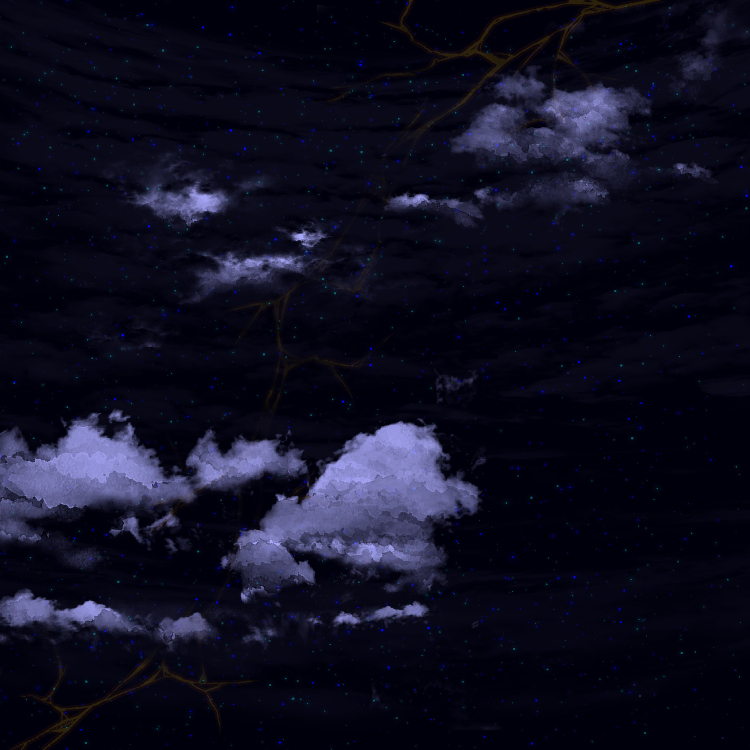
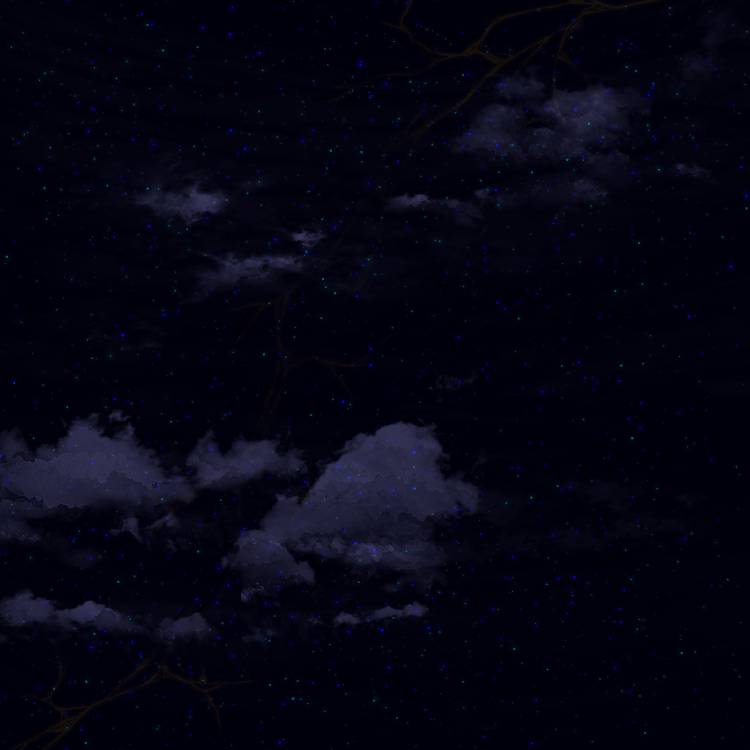
added clouds

diff --git a/game/game.js b/game/game.js
@@ -30,17 +30,23 @@ var game_phys_objects = [];
 var ground_collision_list = [];
 
 var background_img;
+var player_sprite;
+var cloud_platform1;
+var cloud_platform2;
+var cloud_platform3;
 
 //img loading
 function preload(){
     background_img = loadImage('../img/interactive_game_assets_background.png');
     var player;
-    var platform;
+    cloud_platform1 = loadImage('../img/interactive_game_assets_cloud1.png');
+    cloud_platform2 = loadImage('../img/interactive_game_assets_cloud2.png');
+    cloud_platform3 = loadImage('../img/interactive_game_assets_cloud3.png');
 }
 
 class Player {
     constructor(xSpawn, ySpawn){
-        this.body = Bodies.rectangle(xSpawn, ySpawn, pWidth, pHeight, {/*inertia: Infinity*/});
+        this.body = Bodies.rectangle(xSpawn, ySpawn, pWidth, pHeight, {inertia: Infinity});
         this.body.friction = 0;
         Composite.add(engine.world, this.body);
         this.jump_time = 0;
@@ -103,11 +109,13 @@ class Player {
 }
 
 class Platform {
-    constructor(x, y, w, h = 60){
+    constructor(img, x, y, w, h = 60){
+        this.img = img;
         this.x = x;
         this.y = y;
         this.w = w;
         this.h = h;
+        this.y2 = y-(h/2);
 
         this.body = Bodies.rectangle(x, y, w, h, {isStatic: true, friction: 0});
         this.body2 = Bodies.rectangle(x, y-(h/2), w-2, 5, {isStatic: true});//Collision detection slice
@@ -119,14 +127,18 @@ class Platform {
 
     }
     show(){
-        var pos = this.body.position;
-        var angle = this.body.angle;
-
-        push();
-        translate(pos.x, pos.y);
-        rotate(angle);
-        rect(0, 0, this.w, this.h);
-        pop();
+        if (this.img != null){
+            var pos = this.body.position;
+            var angle = this.body.angle;
+            
+            push();
+            translate(pos.x, pos.y-(this.h/2));
+            rotate(angle);
+            //rect(0,0,this.w, this.h);
+            imageMode(CENTER);
+            image(this.img, 0, 0, this.w*1.5, this.w);
+            pop();
+        }
     }
 }
 
@@ -166,13 +178,14 @@ var game_player = new Player(pSpawn_x, pSpawn_y);
 function setup() {
     createCanvas(xbound, ybound);
     rectMode(CENTER);
+    blendMode(BLEND);
 
     // BUILDS THE MAP GEOMETRY, Main difference between each page
     game_phys_objects.push(
-    new Platform(xbound/2, ybound/2, xbound/2), 
-    new Platform(xbound*3/4, ybound*3/4, xbound/4),
-    new Platform(xbound/4, ybound/4, xbound/2),
-    new Platform(xbound/2, ybound+30, xbound, 60),// bottom ground
+    new Platform(cloud_platform1, xbound/2, ybound/2, xbound/2), 
+    new Platform(cloud_platform3, xbound*3/4, ybound*3/4, xbound/4),
+    new Platform(cloud_platform2, xbound/4, ybound/4, xbound/2),
+    new Platform(null, xbound/2, ybound+30, xbound, 60),// bottom ground
     );
 
 
